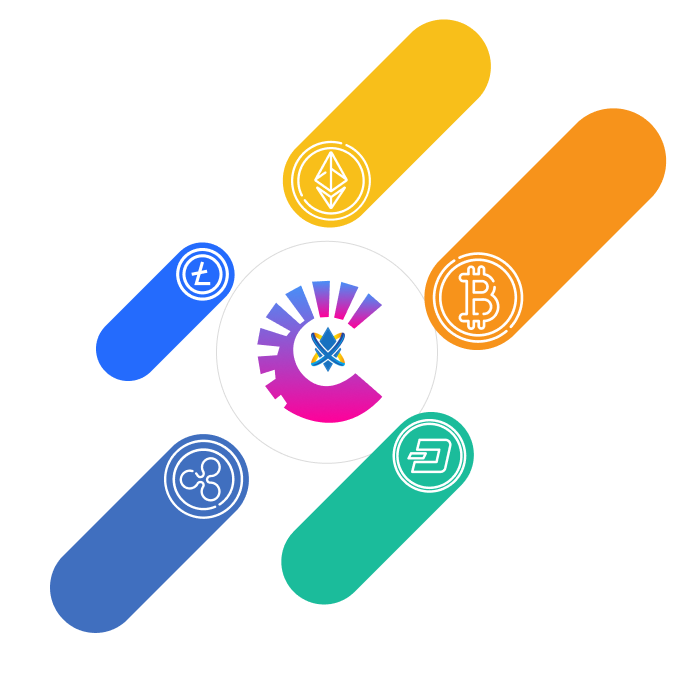
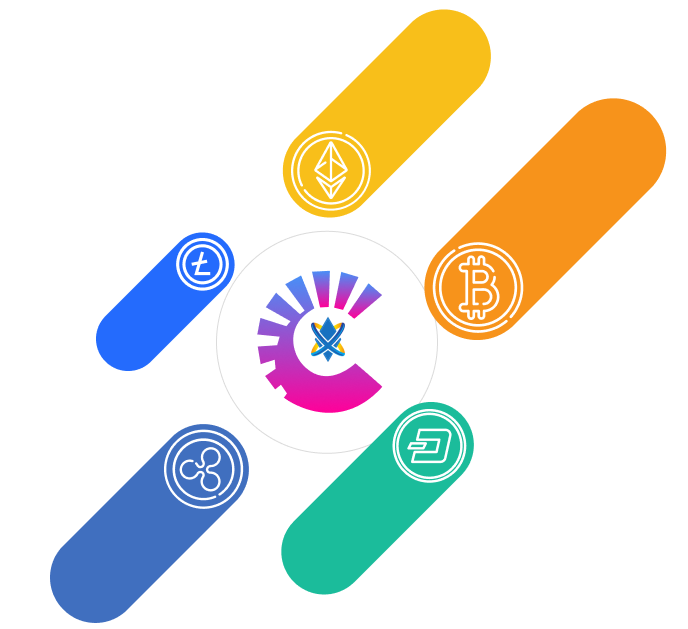
btn updates.

diff --git a/src/component/Vision.js b/src/component/Vision.js
@@ -4,8 +4,8 @@ import vision from '../Images/vision.png'
 export default function Vision(){
     return(
         <>
-            <div className='visionBox bg-visionBg'>
-                <div className='max-w-1400 mx-auto grid md:grid-cols-2 grid-cols-1 gap-3 items-center text-white'>
+            <div className='visionBox bg-visionBg py-28 bg-contain bg-no-repeat'>
+                <div className='max-w-1400 mx-auto grid md:grid-cols-2 grid-cols-1 gap-5 items-end text-white'>
                     <div class="cols-2">
                         <Image imageName={vision} alt={vision}></Image>
                     </div>

diff --git a/src/App.css b/src/App.css
@@ -5,6 +5,9 @@ body{
 .btn-primary{
   @apply bg-gradient-to-r from-grLeft to-grRight text-25 px-8 py-4 text-black font-bold font-roboto inline-block mt-4 rounded-10;
 }
+.btn-size{
+  @apply text-20 px-8 py-2;
+}
 
 /* ankit css */
 body{
